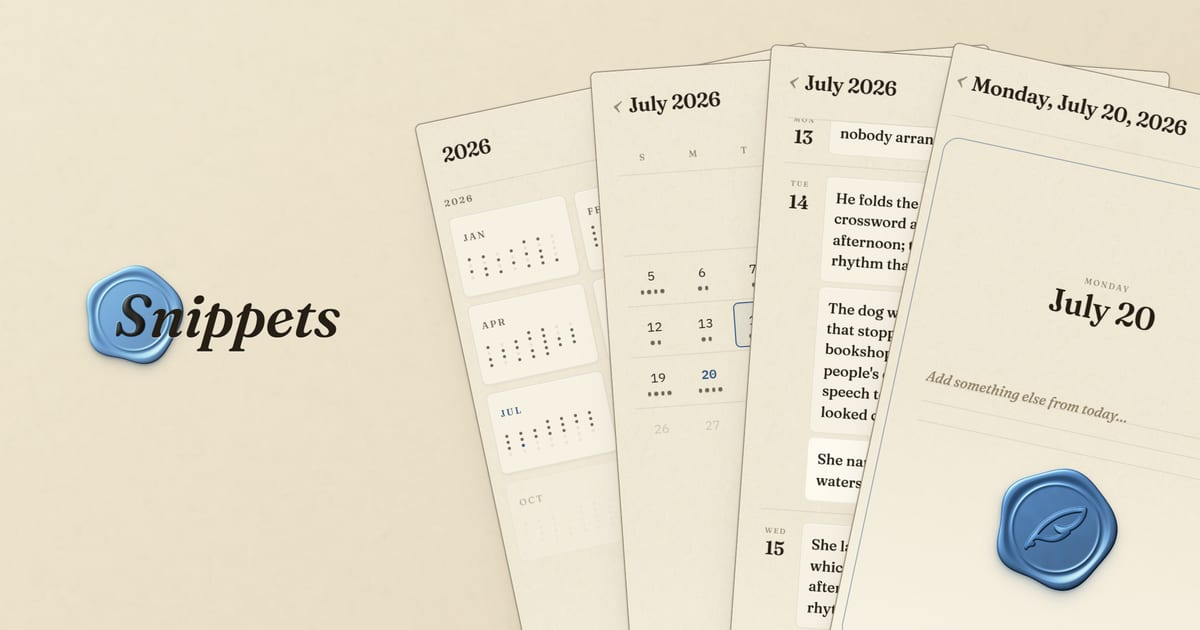
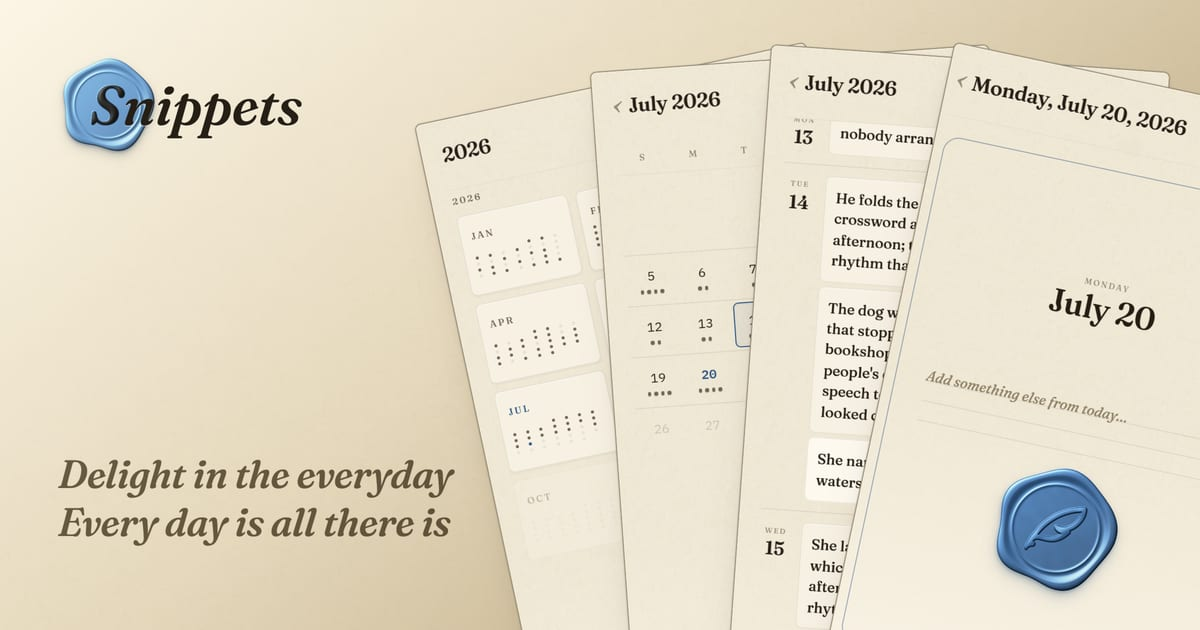
Ship the link-preview image: "Delight in the everyday"
Set the soft tagline layout to the chosen couplet — "Delight in the everyday
/ Every day is all there is" — at 39px so both lines clear the card fan, with
the wordmark and tagline symmetric top/bottom (~86px each). Write it to
opengraph-image.jpg (53 KB, 1200x630) and update the alt text to name the line.

diff --git a/src/lib/copy.ts b/src/lib/copy.ts
@@ -30,7 +30,7 @@ export const copy = {
     description:
       "A pocket notebook. Catch the stories, jokes, and stray thoughts of your day before they evaporate.",
     /** alt text for the link-preview image (src/app/opengraph-image.alt.txt is generated from this — keep them matched) */
-    ogAlt: "The Snippets wordmark beside a fanned stack of the app's pages — a year, a month, kept days, and today — sealed with blue wax. A pocket notebook.",
+    ogAlt: "The Snippets wordmark over the words 'Delight in the everyday — every day is all there is,' beside a fanned stack of the app's pages — a year, a month, kept days, and today — sealed with blue wax. A pocket notebook.",
   },
 
   /** primary navigation — the desktop links and the mobile dock */
